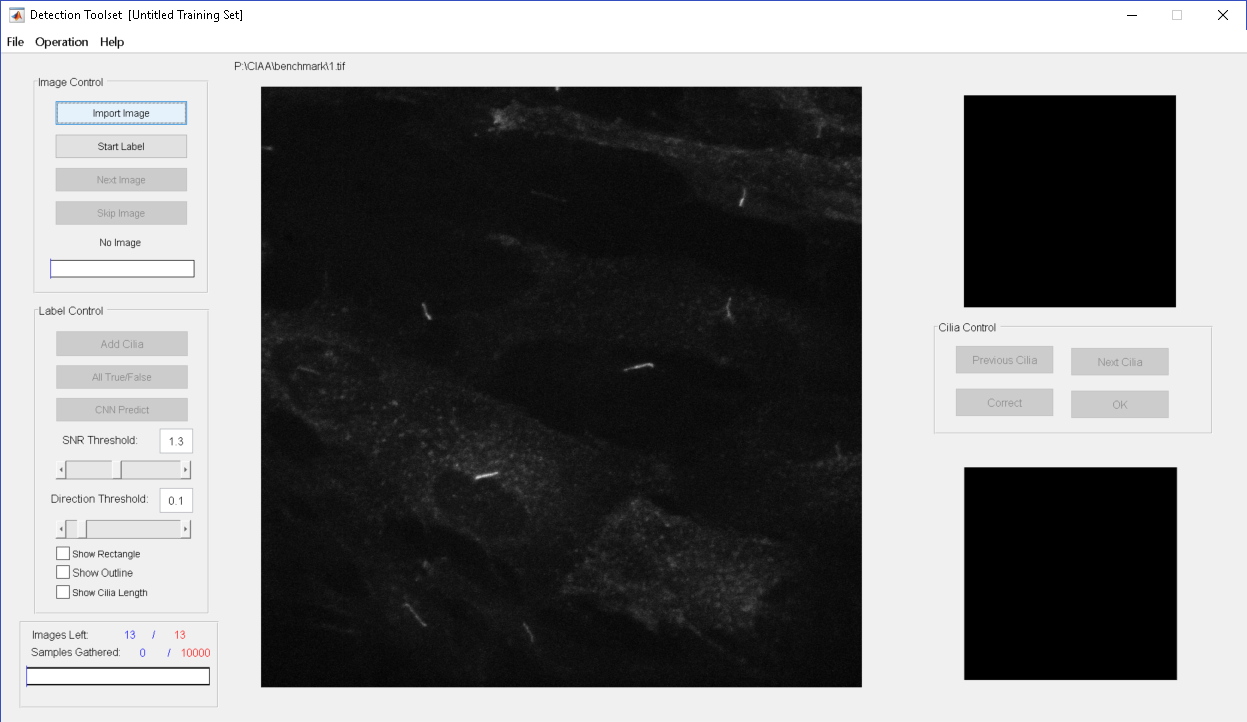
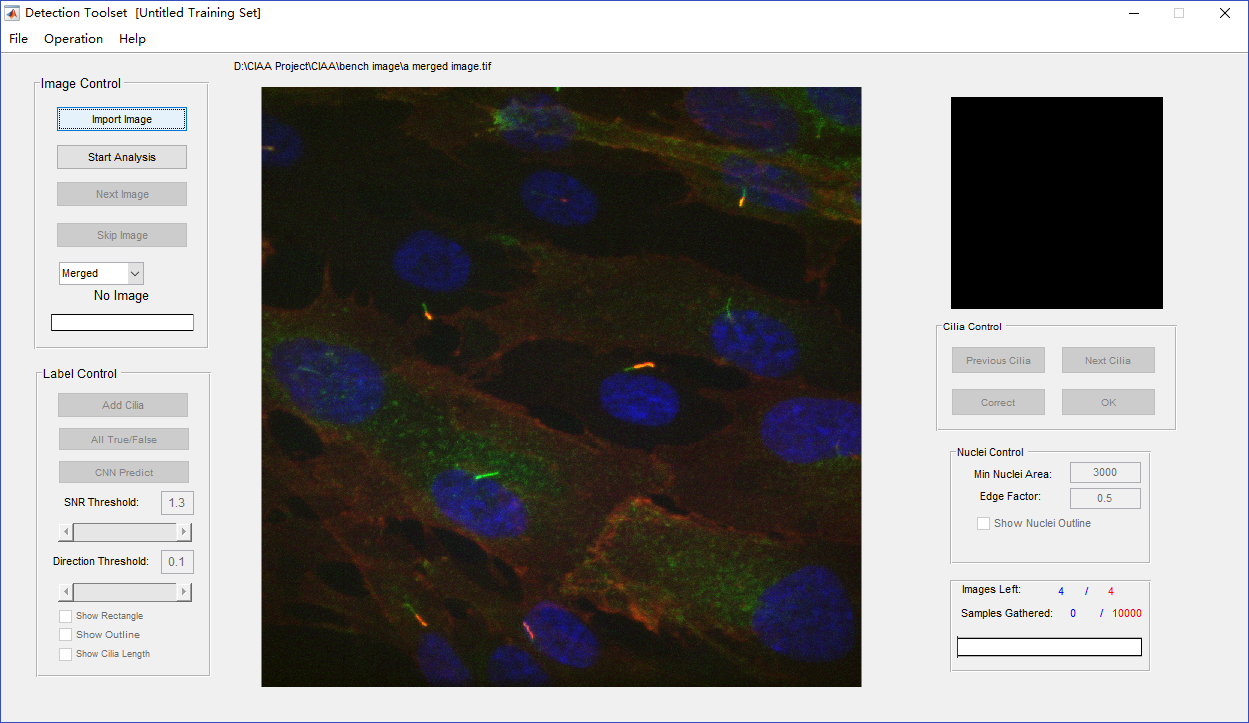
update help

diff --git a/Detection toolset/doc/CIAA Help.html b/Detection toolset/doc/CIAA Help.html
@@ -18,7 +18,7 @@
 
 <li>The bottom-left is a progress window. “Images left” indicates the   unprocessed original images left in current working directory. “Samples gathered” indicate the current number of cilia samples (both true and false, invalid not counted) harvested into current output file from all directories processed.<br><img src="image/1.png" alt="img"></li>
 
-<li>Click the “Start Label” button to begin, the software will automatically show all the possible cilia by boxes. All the boxes are initially labeled as false, and the button “All true/false” can change this initial label condition into all true (green). Left-click to alter box between true(green) and false(red), right-click to label a box as invalid (invalid boxes are not collected into training set). Click “Next Image” to proceed with next image.Click "Skip Image" to skip invalid image like nuclei image or red channel image.<br><img src="image/2.png" alt="img"></li>
+<li>Click the “Start Label” button to begin, the software will automatically show all the possible cilia by boxes. All the boxes are initially labeled as false, and the button “All true/false” can change this initial label condition into all true (green). Left-click to alter box between true(green) and false(red), right-click to label a box as invalid (invalid boxes are not collected into training set). Click “Next Image” to proceed with next image.Click "Skip Image" to skip invalid image like nuclei image or red channel image. Click pop menu to determine what channel('Merged', 'Cy3', 'FITC', 'DAPI') to be showed.<table><tr><td><img src="image/2.png" alt="img" border=0></td><td><img src="image/2_1.png" alt="img" border=0></td></tr></table></li>
 
 <li>To manually add undetected cilia, first click "Add Cilia" button in the "Label Control" panel. Then double-click the body of the manually detected cilia.</li>
 
@@ -42,6 +42,10 @@
 'cnn training tool' on a data set for the first time, you should click check box in 'data setting' pannel, and then load this cilia data set. Before you click 'Generate & Save' button, you should determine validation ratio and augmentation times. Most of the time, 0.1 is a decent choice for validation ratio, but augmentation times depends on the size of cilia data set. You have to make sure that cilia data size is greater than 40000 after augmentation(bigger training set may be better, but it would take longer time to train).  Then you can click 'Generate & Save' button to select a directory to save generated data. The next time you use this tool on this data set, you can skip data generation stage and select the directory containing the generated data set directly. At this time, you can use default hyperparameters to train model or change some parameters before training. There are some suggested hyperparameters:
 (1)learning rate: 0.00001 ~ 0.001, (2)momentum: 0.90 ~ 0.99, (3)learning rate decay: 0.003 ~ 0.008, (4)epoch: 200, (5)batch size: 64 or 128 or 256, (6)early stopping: true. 
 If you want 'cnn predictor' to use the newly trained model, you should rename the three generated files ('xxx_Model.hdf5', 'xxx_dataMean.npy', 'xxx_imageMean.npy') in 'Data Directory' to  'DualAlxeNetModel.hdf5', 'DualAlxeNet_dataMean.npy', 'DualAlxeNet_imageMean' and replace the coresponding files in 'CIAA\Detection toolset\cnn' folder with them. Don't forget to backup the model (all three files) before replacing it.<br><img src="image/8.png" alt="img"></li>
+
+<li>If the blue channel of image is nuclei, the software would do nuclei's segmentation and counting automatically when we click 'Start Analysis' button or 'Next Image' button. Adjusting parameters in 'Nuclei Control' panel to get the best results. Click check box to determine whether to show nuclei's outline.<br><img src="image/9.png" alt="img"></li>
+
+<li>The cilia analysis report is generated when we click 'End Analysis' button and determine to save the training set file. A excel file would be generated if pc have installed excel application, otherwise a text file would be generated. The report's format:<br>[report name]<br>[image id] [image name] [image type] [nuclei number]<br>[cilium id] [cilium location] [cilium length] [cilium outer length] [out/in ratio] [auto analysis time] [manual length] [manual outer length] [manual out/in ratio] [manual analysis time]<br>In the report, manual cilium length and manual outer cilium length is initialized with cilium length and cilium outer length calculated by algorithm.<br><img src="image/10.png" alt="img"></li>
 
 <footer style="position:fixed; font-size:.8em; text-align:right; bottom:0px; margin-left:-25px; height:20px; width:100%;">generated by <a href="http://pad.haroopress.com" target="_blank">haroopad</a></footer>
 </body>
